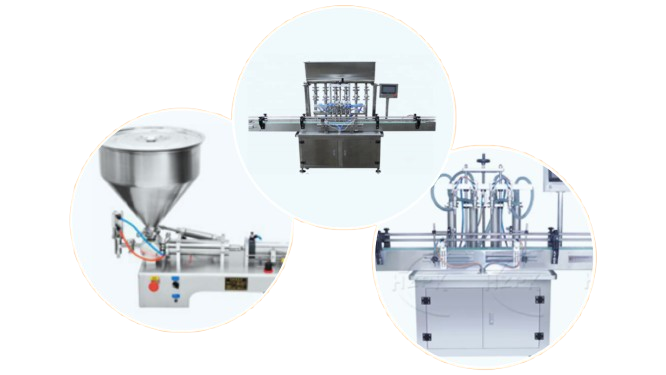
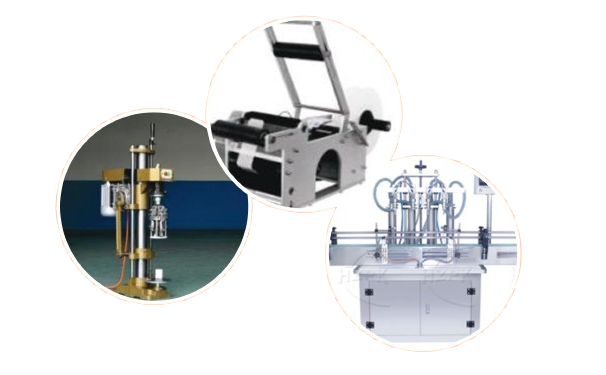
carousel modified

Changed region(s): [[0.0891, 0.0293, 0.8911, 0.9973], [0.4752, 0.5867, 0.505, 0.616], [0.2376, 0.88, 0.2673, 0.9093]]

diff --git a/index.html b/index.html
@@ -182,7 +182,7 @@
                   <h2 class="sub-text">for Optimal Results.</h2>
                 </div>
                 <div class="col-md-6 image-section">
-                  <img id="carousel1-img" src="assets/img/carousel/carousel1-img.png" alt="">
+                  <img id="carousel1-img" src="assets/img/carousel/carousel1-img.png" alt="carousel1-img">
                 </div>
               </div>
             </div>
@@ -198,7 +198,7 @@
                   <h2 class="sub-text">for Consistent Excellence.</h2>
                 </div>
                 <div class="col-md-6 image-section d-flex justify-content-center align-items-center flex-wrap">
-                  <img id="carousel2-img" src="assets/img/carousel/carousel2-img.png" alt="">
+                  <img id="carousel2-img" src="assets/img/carousel/carousel2-img.png" alt="carousel2-img">
                 </div>
               </div>
             </div>
@@ -214,8 +214,7 @@
                   <h2 class="sub-text-2">for Future-Ready Operations.</h2>
                 </div>
                 <div class="col-md-6 image-section d-flex justify-content-center align-items-center flex-wrap">
-                  <img id="carousel3-img1" src="assets/img/carousel/carousel3-img1.png" alt="">
-                  <img id="carousel3-img2" src="assets/img/carousel/carousel3-img2.png" alt="">
+                  <img id="carousel3-img" src="assets/img/carousel/carousel3-img.png" alt="">
                 </div>
               </div>
             </div>

diff --git a/assets/css/main.css b/assets/css/main.css
@@ -574,7 +574,7 @@ section,
 }
 
 .text-section{
-  margin-top: 30px;
+  margin-top: 40px;
 }
 
 .text-section .main-text {
@@ -614,32 +614,19 @@ section,
 }
 
 .image-section #carousel2-img{
-  width: 100%;
-  height: 100%;
-  object-fit: cover;
-  padding: 5px;
+  width: 350px;
+  height: 350px;
+  object-fit: contain;
+  padding: 1px;
   margin-top: -30px;
 }
 
-.image-section #carousel3-img1{
-  width: 220px;
-  height: 220px;
+.image-section #carousel3-img{
+  width: 350px;
+  height: 350px;
   object-fit: contain;
-  border-radius: 50%;
-  border: 3px solid var(--contrast-color);
   padding: 1px;
-  background-color: white;
-}
-
-.image-section #carousel3-img2{
-  width: 220px;
-  height: 220px;
-  object-fit: contain;
-  border-radius: 50%;
-  border: 3px solid var(--contrast-color);
-  padding: 1px;
-  background-color: white;
-  margin-top: 80px;
+  margin-top: -30px;
 }
 
 #conveyor-img{
